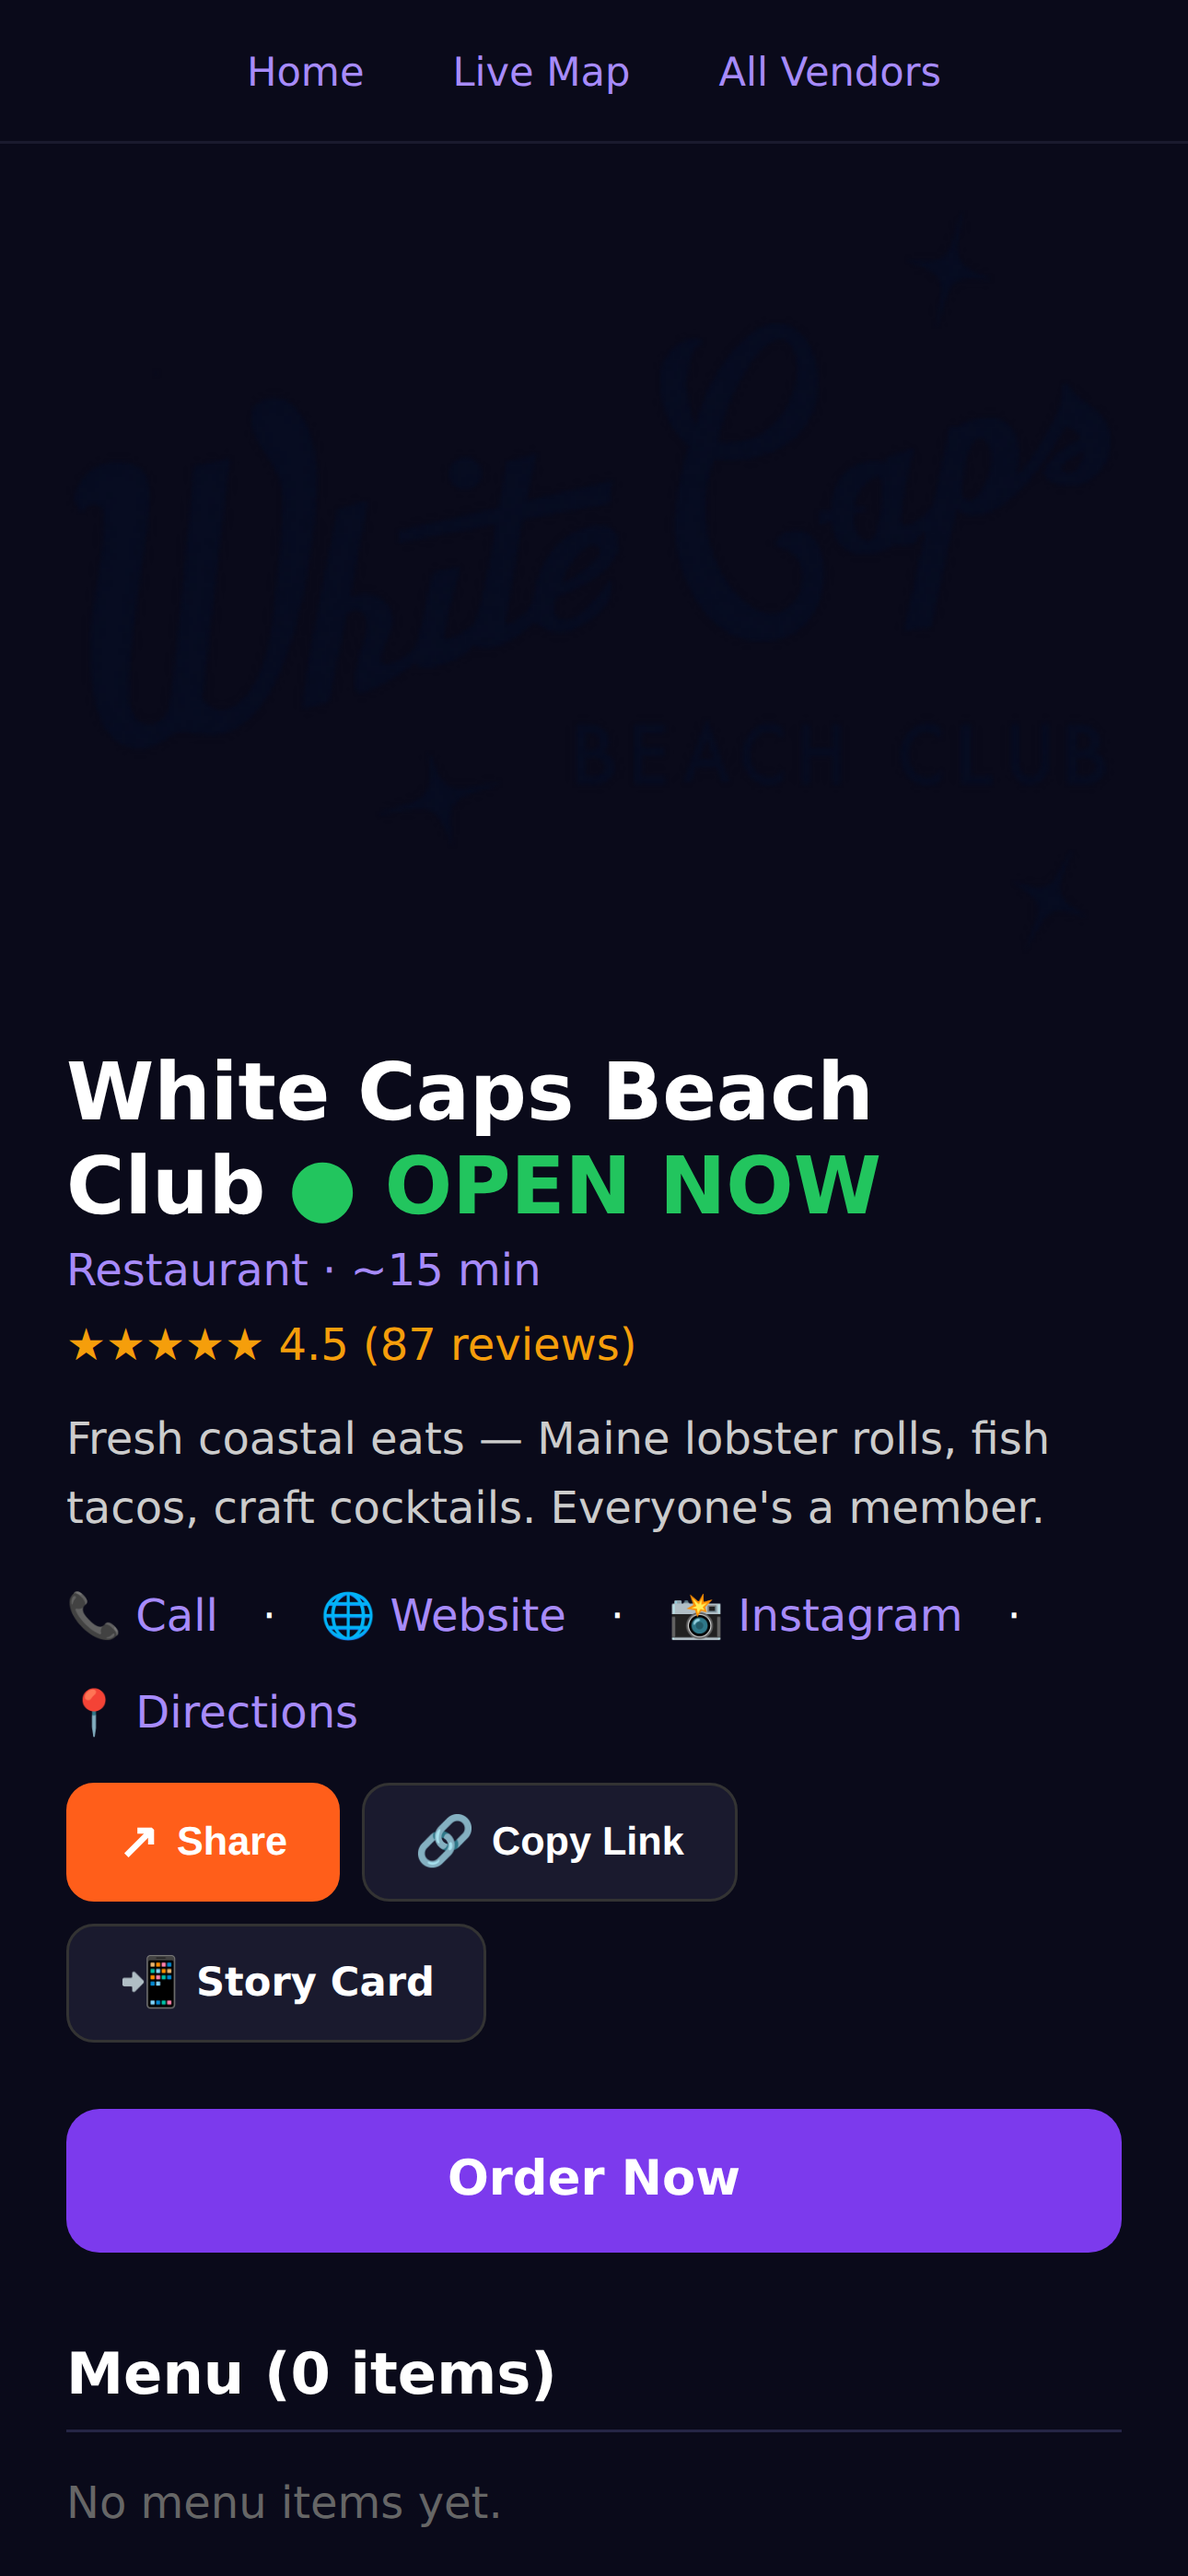
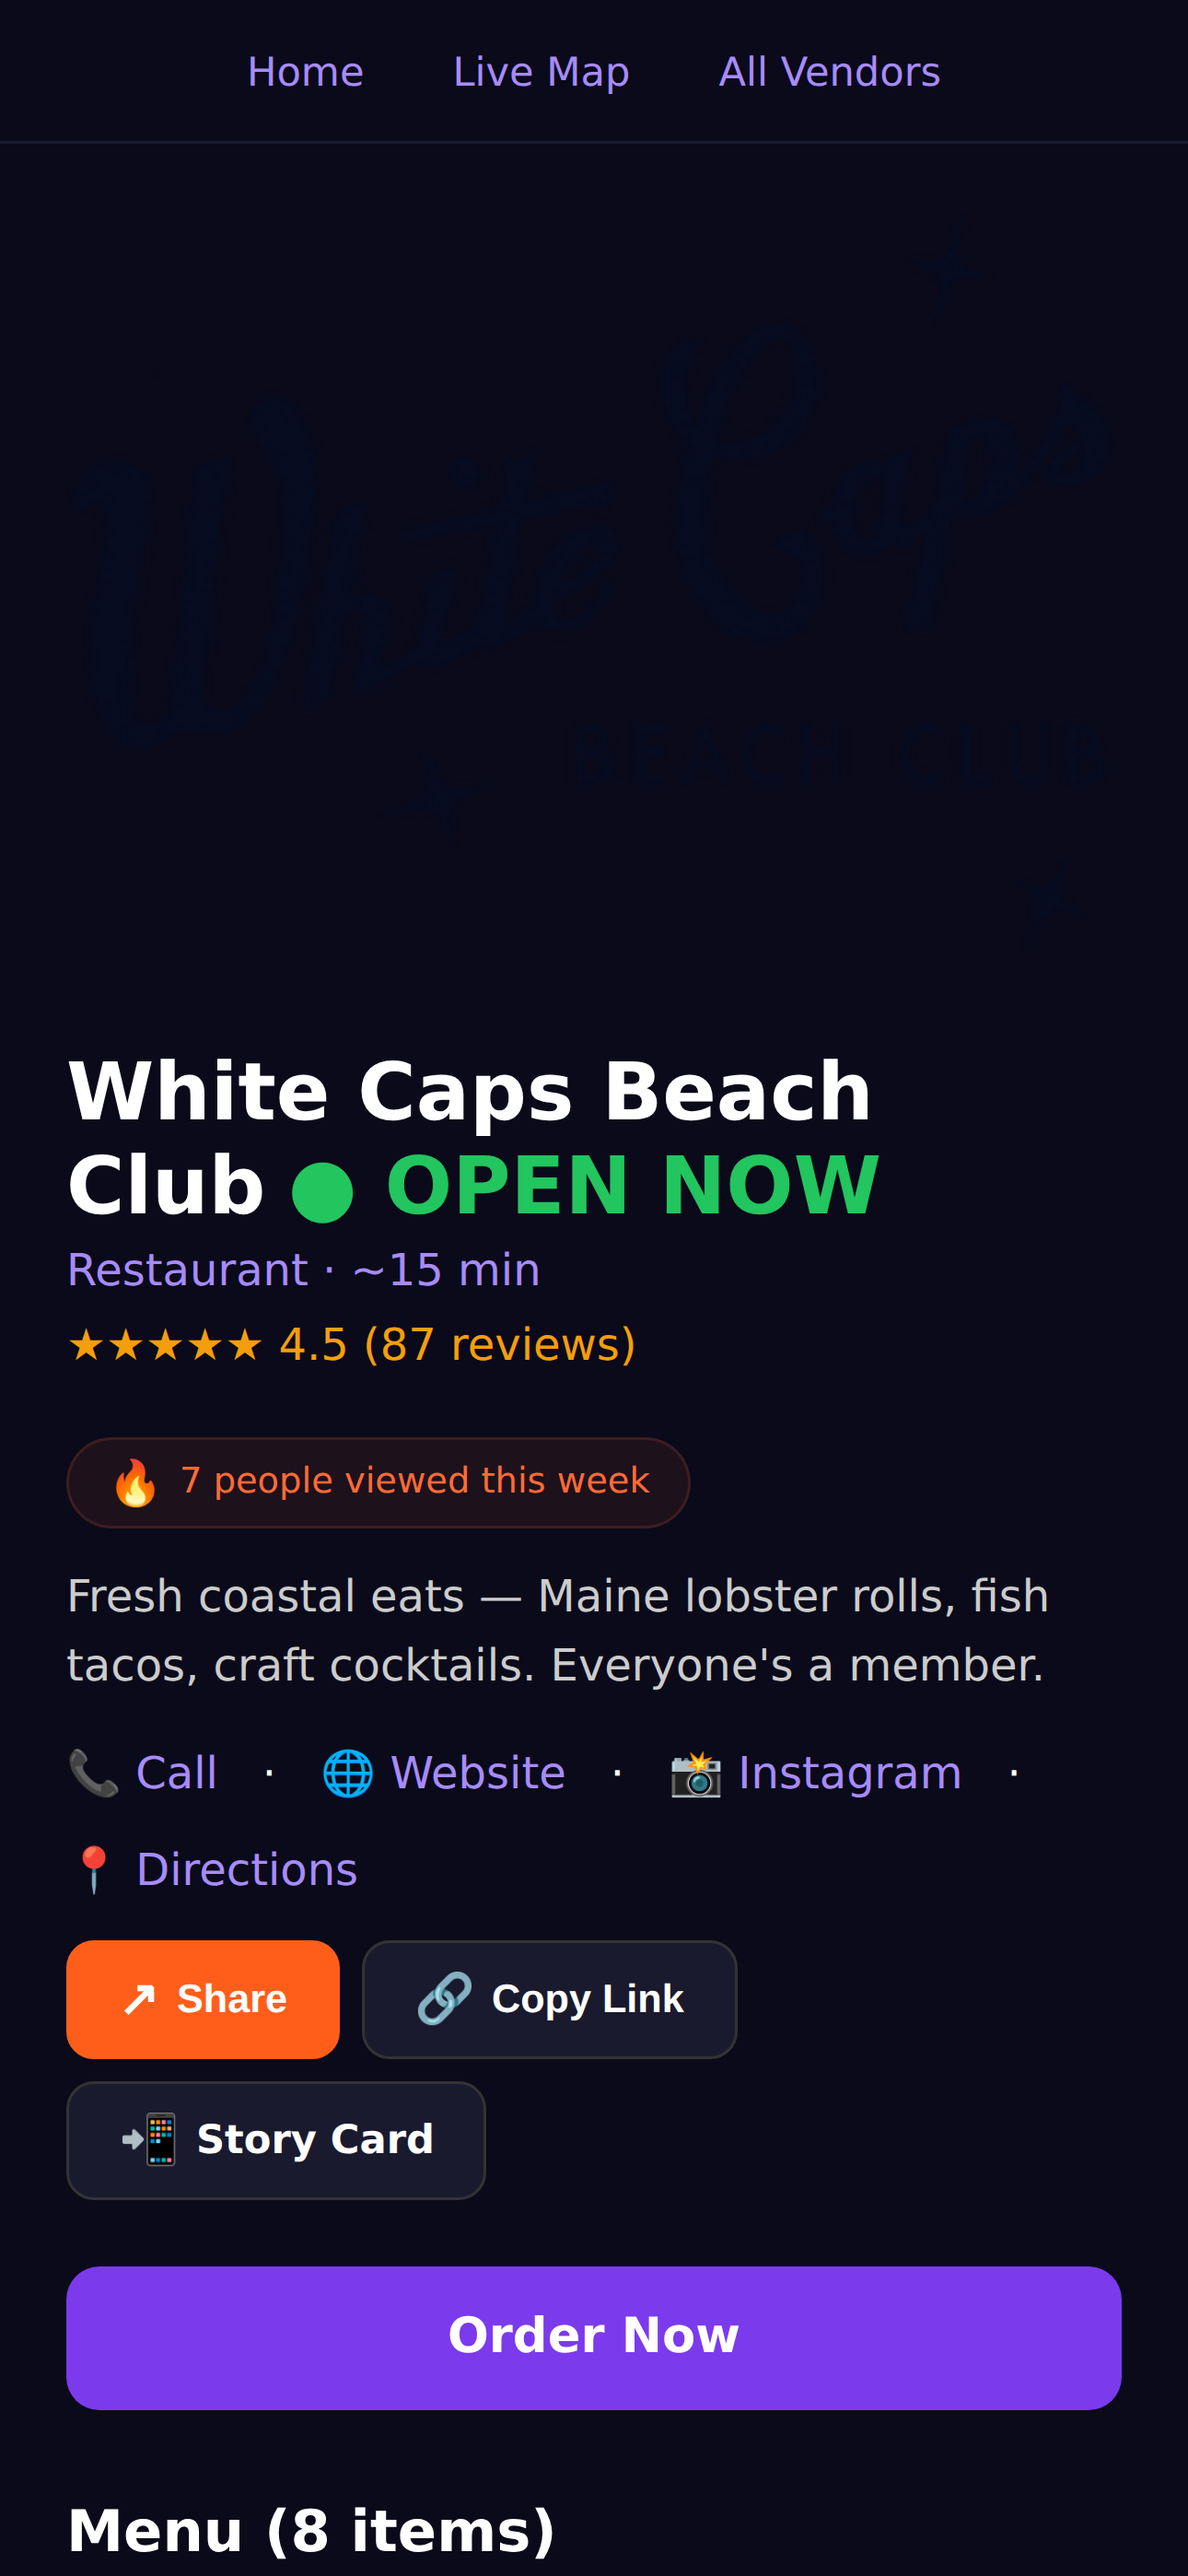
chore(wya): add ASC screenshot upload script + fresh screenshots
- Screenshots regenerated post-design-refresh (emoji-free)
- ASC API script for programmatic upload
- Ready for resubmission after build

Changed region(s): [[0.031, 0.529, 0.9612, 0.9957], [0.5271, 0.6845, 0.8062, 0.7779]]

diff --git a/scripts/asc-upload-screenshots.js b/scripts/asc-upload-screenshots.js
@@ -1,0 +1,269 @@
+#!/usr/bin/env node
+/**
+ * App Store Connect Screenshot Upload & Submit Script
+ * Uses the ASC API to upload screenshots and submit for review without web login
+ */
+
+const fs = require('fs');
+const path = require('path');
+const crypto = require('crypto');
+const https = require('https');
+
+// Config
+const KEY_ID = '6T7FMU83Q3';
+const ISSUER_ID = '54717bff-71a1-46bc-a578-a94db1886499';
+const KEY_PATH = '/root/.credentials/apns/AuthKey_6T7FMU83Q3.p8';
+const APP_ID = '6829488221';
+const BUNDLE_ID = 'com.universoul.wya';
+const SCREENSHOT_DIR = path.join(__dirname, '..', 'screenshots');
+
+// Screenshot display targets for iPhone 6.7"
+const SCREENSHOT_DISPLAY_TYPE = 'APP_IPHONE_67';
+
+function generateJWT() {
+  const privateKey = fs.readFileSync(KEY_PATH, 'utf8');
+  const header = { alg: 'ES256', kid: KEY_ID, typ: 'JWT' };
+  const now = Math.floor(Date.now() / 1000);
+  const payload = { iss: ISSUER_ID, iat: now, exp: now + 1200, aud: 'appstoreconnect-v1' };
+
+  const headerB64 = Buffer.from(JSON.stringify(header)).toString('base64url');
+  const payloadB64 = Buffer.from(JSON.stringify(payload)).toString('base64url');
+  const signatureInput = `${headerB64}.${payloadB64}`;
+
+  const sign = crypto.createSign('SHA256');
+  sign.update(signatureInput);
+  const signature = sign.sign(privateKey);
+
+  const derToRaw = (derSig) => {
+    let offset = 2;
+    const rLength = derSig[offset + 1];
+    offset += 2;
+    let r = derSig.slice(offset, offset + rLength);
+    offset += rLength + 2;
+    const sLength = derSig[offset - 1];
+    let s = derSig.slice(offset, offset + sLength);
+    if (r.length > 32) r = r.slice(r.length - 32);
+    if (s.length > 32) s = s.slice(s.length - 32);
+    if (r.length < 32) r = Buffer.concat([Buffer.alloc(32 - r.length), r]);
+    if (s.length < 32) s = Buffer.concat([Buffer.alloc(32 - s.length), s]);
+    return Buffer.concat([r, s]);
+  };
+
+  const rawSig = derToRaw(signature);
+  return `${headerB64}.${payloadB64}.${rawSig.toString('base64url')}`;
+}
+
+async function apiRequest(method, endpoint, body = null) {
+  const token = generateJWT();
+  return new Promise((resolve, reject) => {
+    const options = {
+      hostname: 'api.appstoreconnect.apple.com',
+      path: `/v1/${endpoint}`,
+      method,
+      headers: { 'Authorization': `Bearer ${token}`, 'Content-Type': 'application/json' }
+    };
+
+    const req = https.request(options, (res) => {
+      let data = '';
+      res.on('data', chunk => data += chunk);
+      res.on('end', () => {
+        try {
+          const json = data ? JSON.parse(data) : {};
+          if (res.statusCode >= 400) {
+            console.error(`API Error ${res.statusCode}:`, JSON.stringify(json.errors || json, null, 2));
+            reject(new Error(`API error: ${res.statusCode}`));
+          } else {
+            resolve({ status: res.statusCode, data: json });
+          }
+        } catch (e) {
+          resolve({ status: res.statusCode, data });
+        }
+      });
+    });
+    req.on('error', reject);
+    if (body) req.write(JSON.stringify(body));
+    req.end();
+  });
+}
+
+async function uploadFile(url, fileBuffer, contentType) {
+  return new Promise((resolve, reject) => {
+    const urlObj = new URL(url);
+    const options = {
+      hostname: urlObj.hostname,
+      path: urlObj.pathname + urlObj.search,
+      method: 'PUT',
+      headers: { 'Content-Type': contentType, 'Content-Length': fileBuffer.length }
+    };
+
+    const req = https.request(options, (res) => {
+      let data = '';
+      res.on('data', chunk => data += chunk);
+      res.on('end', () => resolve({ status: res.statusCode, data }));
+    });
+    req.on('error', reject);
+    req.write(fileBuffer);
+    req.end();
+  });
+}
+
+async function getAppStoreVersion() {
+  const result = await apiRequest('GET', `apps/${APP_ID}/appStoreVersions?filter[appStoreState]=PREPARE_FOR_SUBMISSION,REJECTED,DEVELOPER_REJECTED,METADATA_REJECTED`);
+  return result.data?.data?.[0];
+}
+
+async function getLocalizations(versionId) {
+  const result = await apiRequest('GET', `appStoreVersions/${versionId}/appStoreVersionLocalizations`);
+  return result.data?.data || [];
+}
+
+async function getScreenshotSets(locId) {
+  const result = await apiRequest('GET', `appStoreVersionLocalizations/${locId}/appScreenshotSets`);
+  return result.data?.data || [];
+}
+
+async function createScreenshotSet(locId, displayType) {
+  const body = {
+    data: {
+      type: 'appScreenshotSets',
+      attributes: { screenshotDisplayType: displayType },
+      relationships: {
+        appStoreVersionLocalization: { data: { type: 'appStoreVersionLocalizations', id: locId } }
+      }
+    }
+  };
+  const result = await apiRequest('POST', 'appScreenshotSets', body);
+  return result.data?.data;
+}
+
+async function reserveScreenshot(setId, fileName, fileSize) {
+  const body = {
+    data: {
+      type: 'appScreenshots',
+      attributes: { fileName, fileSize },
+      relationships: {
+        appScreenshotSet: { data: { type: 'appScreenshotSets', id: setId } }
+      }
+    }
+  };
+  const result = await apiRequest('POST', 'appScreenshots', body);
+  return result.data?.data;
+}
+
+async function commitScreenshot(screenshotId, checksum) {
+  const body = {
+    data: {
+      type: 'appScreenshots',
+      id: screenshotId,
+      attributes: { uploaded: true, sourceFileChecksum: checksum }
+    }
+  };
+  return apiRequest('PATCH', `appScreenshots/${screenshotId}`, body);
+}
+
+async function main() {
+  try {
+    console.log('=== App Store Connect Screenshot Upload & Submit ===\n');
+
+    // Get editable version
+    console.log('1. Finding editable app version...');
+    let version = await getAppStoreVersion();
+    if (!version) {
+      console.log('   No editable version found. Creating new version 1.1...');
+      const createResult = await apiRequest('POST', 'appStoreVersions', {
+        data: {
+          type: 'appStoreVersions',
+          attributes: { platform: 'IOS', versionString: '1.1' },
+          relationships: { app: { data: { type: 'apps', id: APP_ID } } }
+        }
+      });
+      version = createResult.data?.data;
+      if (!version) {
+        console.error('   Failed to create new version');
+        process.exit(1);
+      }
+    }
+    console.log(`   ✓ Version: ${version.attributes?.versionString} (${version.attributes?.appStoreState})`);
+    const versionId = version.id;
+
+    // Get localizations
+    console.log('\n2. Getting localizations...');
+    const locs = await getLocalizations(versionId);
+    const enLoc = locs.find(l => l.attributes?.locale === 'en-US') || locs[0];
+    if (!enLoc) {
+      console.error('   No localization found');
+      process.exit(1);
+    }
+    console.log(`   ✓ Localization: ${enLoc.attributes?.locale}`);
+    const locId = enLoc.id;
+
+    // Get or create screenshot set
+    console.log('\n3. Setting up screenshot set...');
+    let sets = await getScreenshotSets(locId);
+    let screenshotSet = sets.find(s => s.attributes?.screenshotDisplayType === SCREENSHOT_DISPLAY_TYPE);
+    if (!screenshotSet) {
+      console.log(`   Creating ${SCREENSHOT_DISPLAY_TYPE} screenshot set...`);
+      screenshotSet = await createScreenshotSet(locId, SCREENSHOT_DISPLAY_TYPE);
+    }
+    if (!screenshotSet) {
+      console.error('   Failed to get/create screenshot set');
+      process.exit(1);
+    }
+    console.log(`   ✓ Screenshot set: ${screenshotSet.id}`);
+
+    // Upload screenshots
+    console.log('\n4. Uploading screenshots...');
+    const screenshots = fs.readdirSync(SCREENSHOT_DIR)
+      .filter(f => f.endsWith('.png') && !f.startsWith('.'))
+      .sort();
+
+    for (const filename of screenshots) {
+      const filePath = path.join(SCREENSHOT_DIR, filename);
+      const fileBuffer = fs.readFileSync(filePath);
+      const fileSize = fileBuffer.length;
+
+      console.log(`   Uploading ${filename} (${Math.round(fileSize/1024)}KB)...`);
+
+      // Reserve upload
+      const screenshot = await reserveScreenshot(screenshotSet.id, filename, fileSize);
+      if (!screenshot) {
+        console.log(`   ⚠ Failed to reserve ${filename}, skipping`);
+        continue;
+      }
+
+      // Get upload operations
+      const ops = screenshot.attributes?.uploadOperations || [];
+      if (ops.length === 0) {
+        console.log(`   ⚠ No upload URL for ${filename}, skipping`);
+        continue;
+      }
+
+      // Upload to S3
+      for (const op of ops) {
+        const chunk = fileBuffer.slice(op.offset, op.offset + op.length);
+        const uploadResult = await uploadFile(op.url, chunk, 'image/png');
+        if (uploadResult.status >= 400) {
+          console.log(`   ⚠ Upload failed for ${filename}: ${uploadResult.status}`);
+        }
+      }
+
+      // Commit
+      const checksum = crypto.createHash('md5').update(fileBuffer).digest('hex');
+      await commitScreenshot(screenshot.id, checksum);
+      console.log(`   ✓ ${filename} uploaded`);
+    }
+
+    console.log('\n✅ Screenshots uploaded successfully!');
+    console.log('\nNext steps:');
+    console.log('1. Go to App Store Connect to verify screenshots');
+    console.log('2. Fill in any missing metadata');
+    console.log('3. Submit for review');
+    console.log('\nOr trigger a Codemagic build to submit automatically.');
+
+  } catch (err) {
+    console.error('\nError:', err.message);
+    process.exit(1);
+  }
+}
+
+main();
